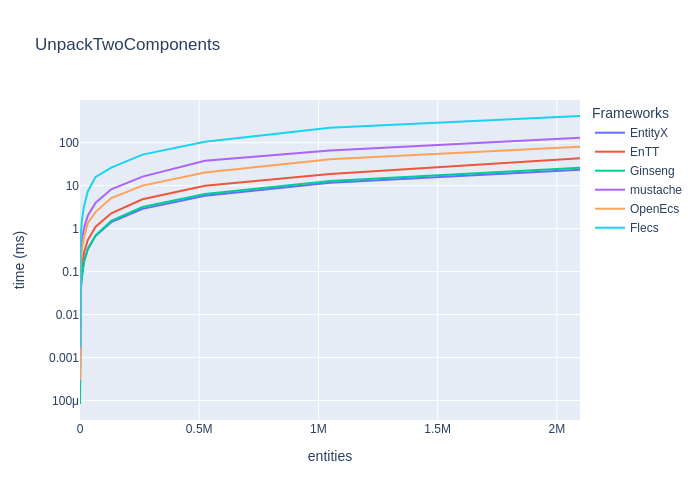
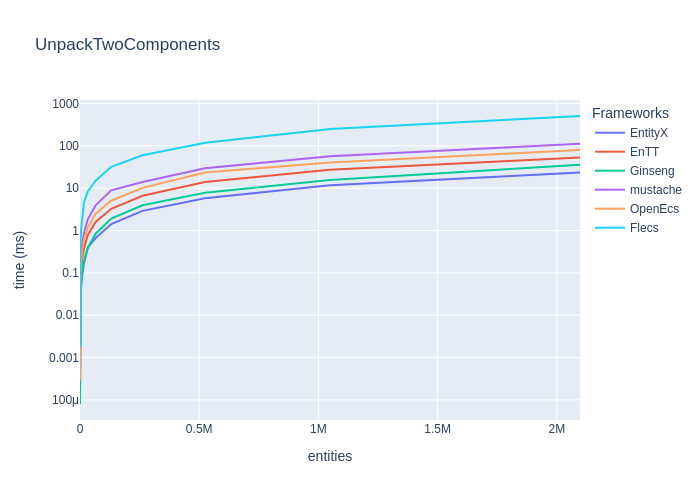
feat: update unpack components results

diff --git a/README.md b/README.md
@@ -89,20 +89,44 @@ _(lower is faster)_
 | Destroy    2M entities with two Components | 0.0720s   | 0.0853s | 0.3407s   | 0.0924s    | **0.0384s**   | 0.1841s |
 
 
-### Get one component from Entity
+### Get one (non-const) component from Entity
 
-![UnpackOneComponent Plot](img/UnpackOneComponent.png)  
+![UnpackOneComponent Plot](img/UnpackOneComponent.png)
 _(lower is faster)_
-
 
 |                                        | EntityX   | EnTT    | Ginseng   | mustache   | OpenEcs   | Flecs   |
 |:---------------------------------------|:----------|:--------|:----------|:-----------|:----------|:--------|
-| Unpack one Component in   16K entities | **0.0001s**   | **0.0001s** | **0.0001s**   | 0.0005s    | 0.0003s   | 0.0016s |
-| Unpack one Component in   65K entities | 0.0004s   | 0.0006s | **0.0003s**   | 0.0020s    | 0.0013s   | 0.0066s |
-| Unpack one Component in  262K entities | **0.0018s**   | 0.0025s | 0.0019s   | 0.0081s    | 0.0054s   | 0.0267s |
-| Unpack one Component in  524K entities | **0.0035s**   | 0.0051s | 0.0040s   | 0.0162s    | 0.0113s   | 0.0534s |
-| Unpack one Component in    1M entities | **0.0071s**   | 0.0103s | 0.0074s   | 0.0322s    | 0.0218s   | 0.1267s |
-| Unpack one Component in    2M entities | **0.0165s**   | 0.0205s | 0.0148s   | 0.0642s    | 0.0441s   | 0.2164s |
+| Unpack one Component in   16K entities | **0.0001s**   | 0.0002s | **0.0001s**   | 0.0006s    | 0.0003s   | 0.0024s |
+| Unpack one Component in   65K entities | **0.0005s**   | 0.0010s | **0.0005s**   | 0.0029s    | 0.0014s   | 0.0099s |
+| Unpack one Component in  262K entities | **0.0022s**   | 0.0040s | 0.0023s   | 0.0095s    | 0.0068s   | 0.0360s |
+| Unpack one Component in  524K entities | **0.0041s**   | 0.0100s | 0.0049s   | 0.0189s    | 0.0116s   | 0.0705s |
+| Unpack one Component in    1M entities | **0.0088s**   | 0.0161s | 0.0093s   | 0.0374s    | 0.0232s   | 0.1405s |
+| Unpack one Component in    2M entities | **0.0170s**   | 0.0321s | 0.0274s   | 0.0747s    | 0.0467s   | 0.2755s |
+
+
+**Note:**
+* Get one CONST component
+   1. const PositionComponent
+
+
+### Get one (const) component from Entity
+
+![UnpackOneComponentConst Plot](img/UnpackOneComponentConst.png)  
+_(lower is faster)_
+
+|                                                | EntityX   | EnTT    | Ginseng   | mustache   | OpenEcs   | Flecs   |
+|:-----------------------------------------------|:----------|:--------|:----------|:-----------|:----------|:--------|
+| Unpack one (const) Component in   16K entities | **0.0001s**   | 0.0002s | **0.0001s**   | 0.0003s    | 0.0003s   | 0.0015s |
+| Unpack one (const) Component in   65K entities | 0.0006s   | 0.0009s | **0.0005s**   | 0.0011s    | 0.0013s   | 0.0061s |
+| Unpack one (const) Component in  262K entities | **0.0023s**   | 0.0037s | **0.0023s**   | 0.0046s    | 0.0055s   | 0.0247s |
+| Unpack one (const) Component in  524K entities | **0.0042s**   | 0.0090s | 0.0048s   | 0.0092s    | 0.0141s   | 0.0554s |
+| Unpack one (const) Component in    1M entities | **0.0086s**   | 0.0148s | 0.0097s   | 0.0178s    | 0.0219s   | 0.0982s |
+| Unpack one (const) Component in    2M entities | **0.0165s**   | 0.0297s | 0.0237s   | 0.0380s    | 0.0429s   | 0.1935s |
+
+
+**Note:**
+ * Get one NON-CONST component
+   1. PositionComponent
 
 
 ### Get two components from Entity
@@ -112,13 +136,18 @@ _(lower is faster)_
 
 |                                        | EntityX   | EnTT    | Ginseng   | mustache   | OpenEcs   | Flecs   |
 |:---------------------------------------|:----------|:--------|:----------|:-----------|:----------|:--------|
-| Unpack two Component in 16.4K entities | **0.0002s**   | 0.0003s | **0.0002s**   | 0.0010s    | 0.0006s   | 0.0032s |
-| Unpack two Component in 65.5K entities | **0.0007s**   | 0.0011s | **0.0007s**   | 0.0040s    | 0.0025s   | 0.0160s |
-| Unpack two Component in  262K entities | **0.0029s**   | 0.0048s | 0.0032s   | 0.0162s    | 0.0100s   | 0.0528s |
-| Unpack two Component in  524K entities | **0.0058s**   | 0.0100s | 0.0064s   | 0.0379s    | 0.0202s   | 0.1054s |
-| Unpack two Component in 1.05M entities | **0.0117s**   | 0.0188s | 0.0129s   | 0.0657s    | 0.0412s   | 0.2224s |
-| Unpack two Component in  2.1M entities | **0.0235s**   | 0.0433s | 0.0259s   | 0.1309s    | 0.0809s   | 0.4178s |
+| Unpack two Component in   16K entities | **0.0002s**   | 0.0004s | **0.0002s**   | 0.0009s    | 0.0006s   | 0.0045s |
+| Unpack two Component in   65K entities | **0.0007s**   | 0.0016s | 0.0008s   | 0.0039s    | 0.0025s   | 0.0150s |
+| Unpack two Component in  262K entities | **0.0029s**   | 0.0066s | 0.0040s   | 0.0140s    | 0.0102s   | 0.0596s |
+| Unpack two Component in  524K entities | **0.0057s**   | 0.0139s | 0.0078s   | 0.0295s    | 0.0234s   | 0.1183s |
+| Unpack two Component in    1M entities | **0.0116s**   | 0.0272s | 0.0156s   | 0.0569s    | 0.0401s   | 0.2501s |
+| Unpack two Component in    2M entities | **0.0234s**   | 0.0529s | 0.0357s   | 0.1114s    | 0.0799s   | 0.5049s |
 
+
+**Note:**
+* Get non-const- and const- component
+   1. PositionComponent
+   2. const DirectionComponent
 
 ### Get three components from Entity
 
@@ -127,12 +156,19 @@ _(lower is faster)_
 
 |                                          | EntityX   | EnTT    | Ginseng   | mustache   | OpenEcs   | Flecs   |
 |:-----------------------------------------|:----------|:--------|:----------|:-----------|:----------|:--------|
-| Unpack three Component in   16K entities | **0.0002s**   | 0.0004s | **0.0002s**   | 0.0013s    | 0.0008s   | 0.0049s |
-| Unpack three Component in   65K entities | **0.0008s**   | 0.0017s | 0.0011s   | 0.0052s    | 0.0034s   | 0.0206s |
-| Unpack three Component in  262K entities | **0.0035s**   | 0.0069s | 0.0048s   | 0.0209s    | 0.0156s   | 0.0895s |
-| Unpack three Component in  524K entities | **0.0070s**   | 0.0142s | 0.0098s   | 0.0522s    | 0.0311s   | 0.1955s |
-| Unpack three Component in    1M entities | **0.0150s**   | 0.0282s | 0.0189s   | 0.0837s    | 0.0623s   | 0.5501s |
-| Unpack three Component in    2M entities | **0.0281s**   | 0.0563s | 0.0387s   | 0.1672s    | 0.1246s   | 1.2514s |
+| Unpack three Component in   16K entities | **0.0002s**   | 0.0005s | 0.0003s   | 0.0013s    | 0.0008s   | 0.0060s |
+| Unpack three Component in   65K entities | **0.0009s**   | 0.0023s | 0.0014s   | 0.0051s    | 0.0037s   | 0.0242s |
+| Unpack three Component in  262K entities | **0.0040s**   | 0.0097s | 0.0058s   | 0.0220s    | 0.0161s   | 0.1066s |
+| Unpack three Component in  524K entities | **0.0084s**   | 0.0182s | 0.0123s   | 0.0424s    | 0.0417s   | 0.3030s |
+| Unpack three Component in    1M entities | **0.0161s**   | 0.0462s | 0.0359s   | 0.0838s    | 0.0627s   | 0.6558s |
+| Unpack three Component in    2M entities | **0.0325s**   | 0.0740s | 0.0483s   | 0.1640s    | 0.1247s   | 1.3012s |
+
+
+**Note:**
+* Get two non-const- and const- component(s)
+   1. PositionComponent
+   2. const DirectionComponent
+   3. DataComponent (optional)
 
 
 #### Remove and add component from Entity
